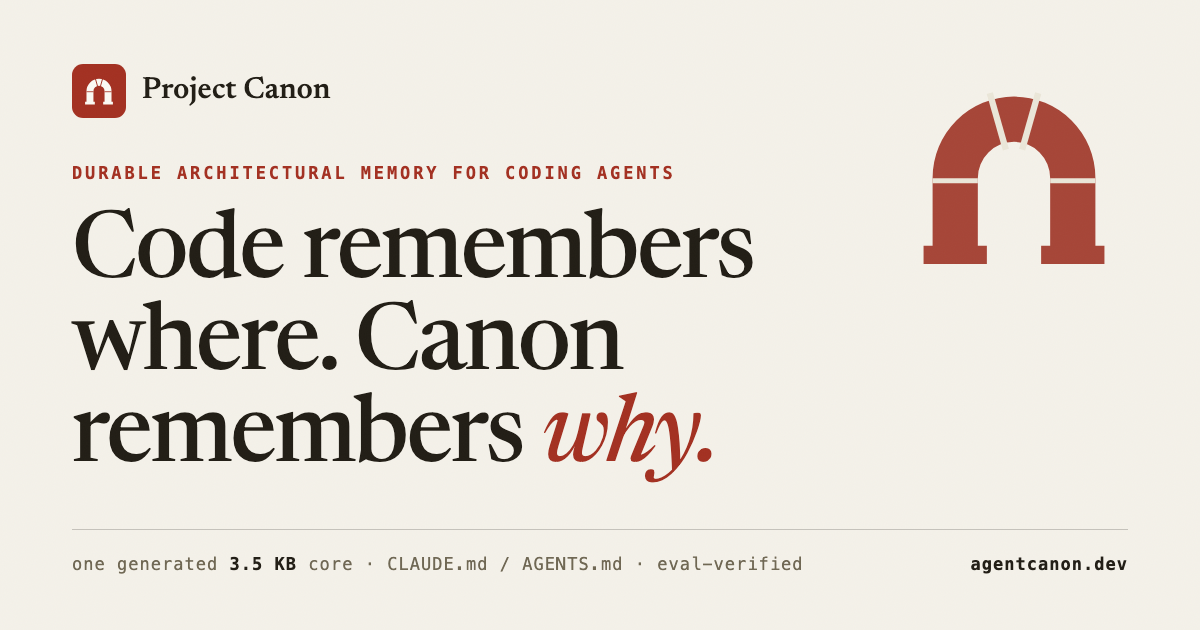
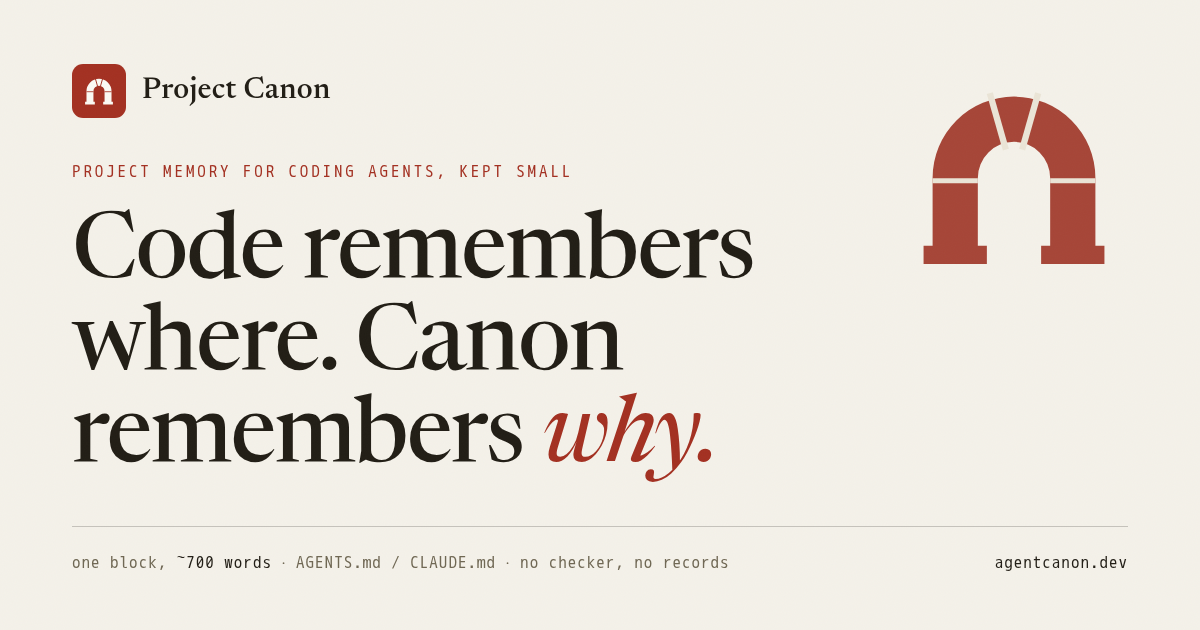
fix(site): replace the social card that still sold the retired core
public/og.png still read "one generated 3.5 kb core · eval-verified".
it is replaced with the render of the updated brand/og.html (linux
headless chromium, visually checked), the og:image alt text now
describes the new card, and the brand notes say a linux render is
acceptable and drop a quote the core no longer carries.

diff --git a/brand/README.md b/brand/README.md
@@ -1,21 +1,26 @@
 # Brand
 
-- `og.html` — source for `public/og.png` (1200×630). Regenerate after edits:
+- `og.html` — source for `public/og.png` (1200×630). Regenerate after edits
+  with any headless Chrome or Chromium; a Linux render is acceptable (the
+  mono line falls back to the system monospace face):
 
   ```sh
   "/Applications/Google Chrome.app/Contents/MacOS/Google Chrome" \
     --headless=new --disable-gpu --hide-scrollbars --virtual-time-budget=4000 \
     --window-size=1200,630 --screenshot=public/og.png brand/og.html
+  # Linux: chromium --headless=new --disable-gpu --hide-scrollbars \
+  #   --virtual-time-budget=4000 --window-size=1200,630 \
+  #   --allow-file-access-from-files --screenshot=public/og.png brand/og.html
   ```
 
 - The mark is a **stone arch** — a voussoir ring on plinthed piers, the
   keystone articulated by two angled masonry joints, spring-line joints
   where the ring meets the piers. The companion project's mark is the pen
   (the instrument that writes the law); Canon's is the arch (the structure
-  that stays standing): it holds because the keystone holds — "the
-  implementation churns, the canon holds" — and it is also the threshold a
-  sentence crosses only when a change has made it false (§ IV). Joints are overprinted in the ground
-  color and dropped at tiny sizes, where the solid silhouette carries.
+  that stays standing): it holds because the keystone holds, and it is also
+  the threshold a sentence crosses only when a change has made it false
+  (§ IV). Joints are overprinted in the ground color and dropped at tiny
+  sizes, where the solid silhouette carries.
 - There is deliberately **no ratification-style seal**: ratification is the
   companion project's ritual, and Canon has none — the record starts empty,
   holds a handful of notes, and has no authority above the owner's current
